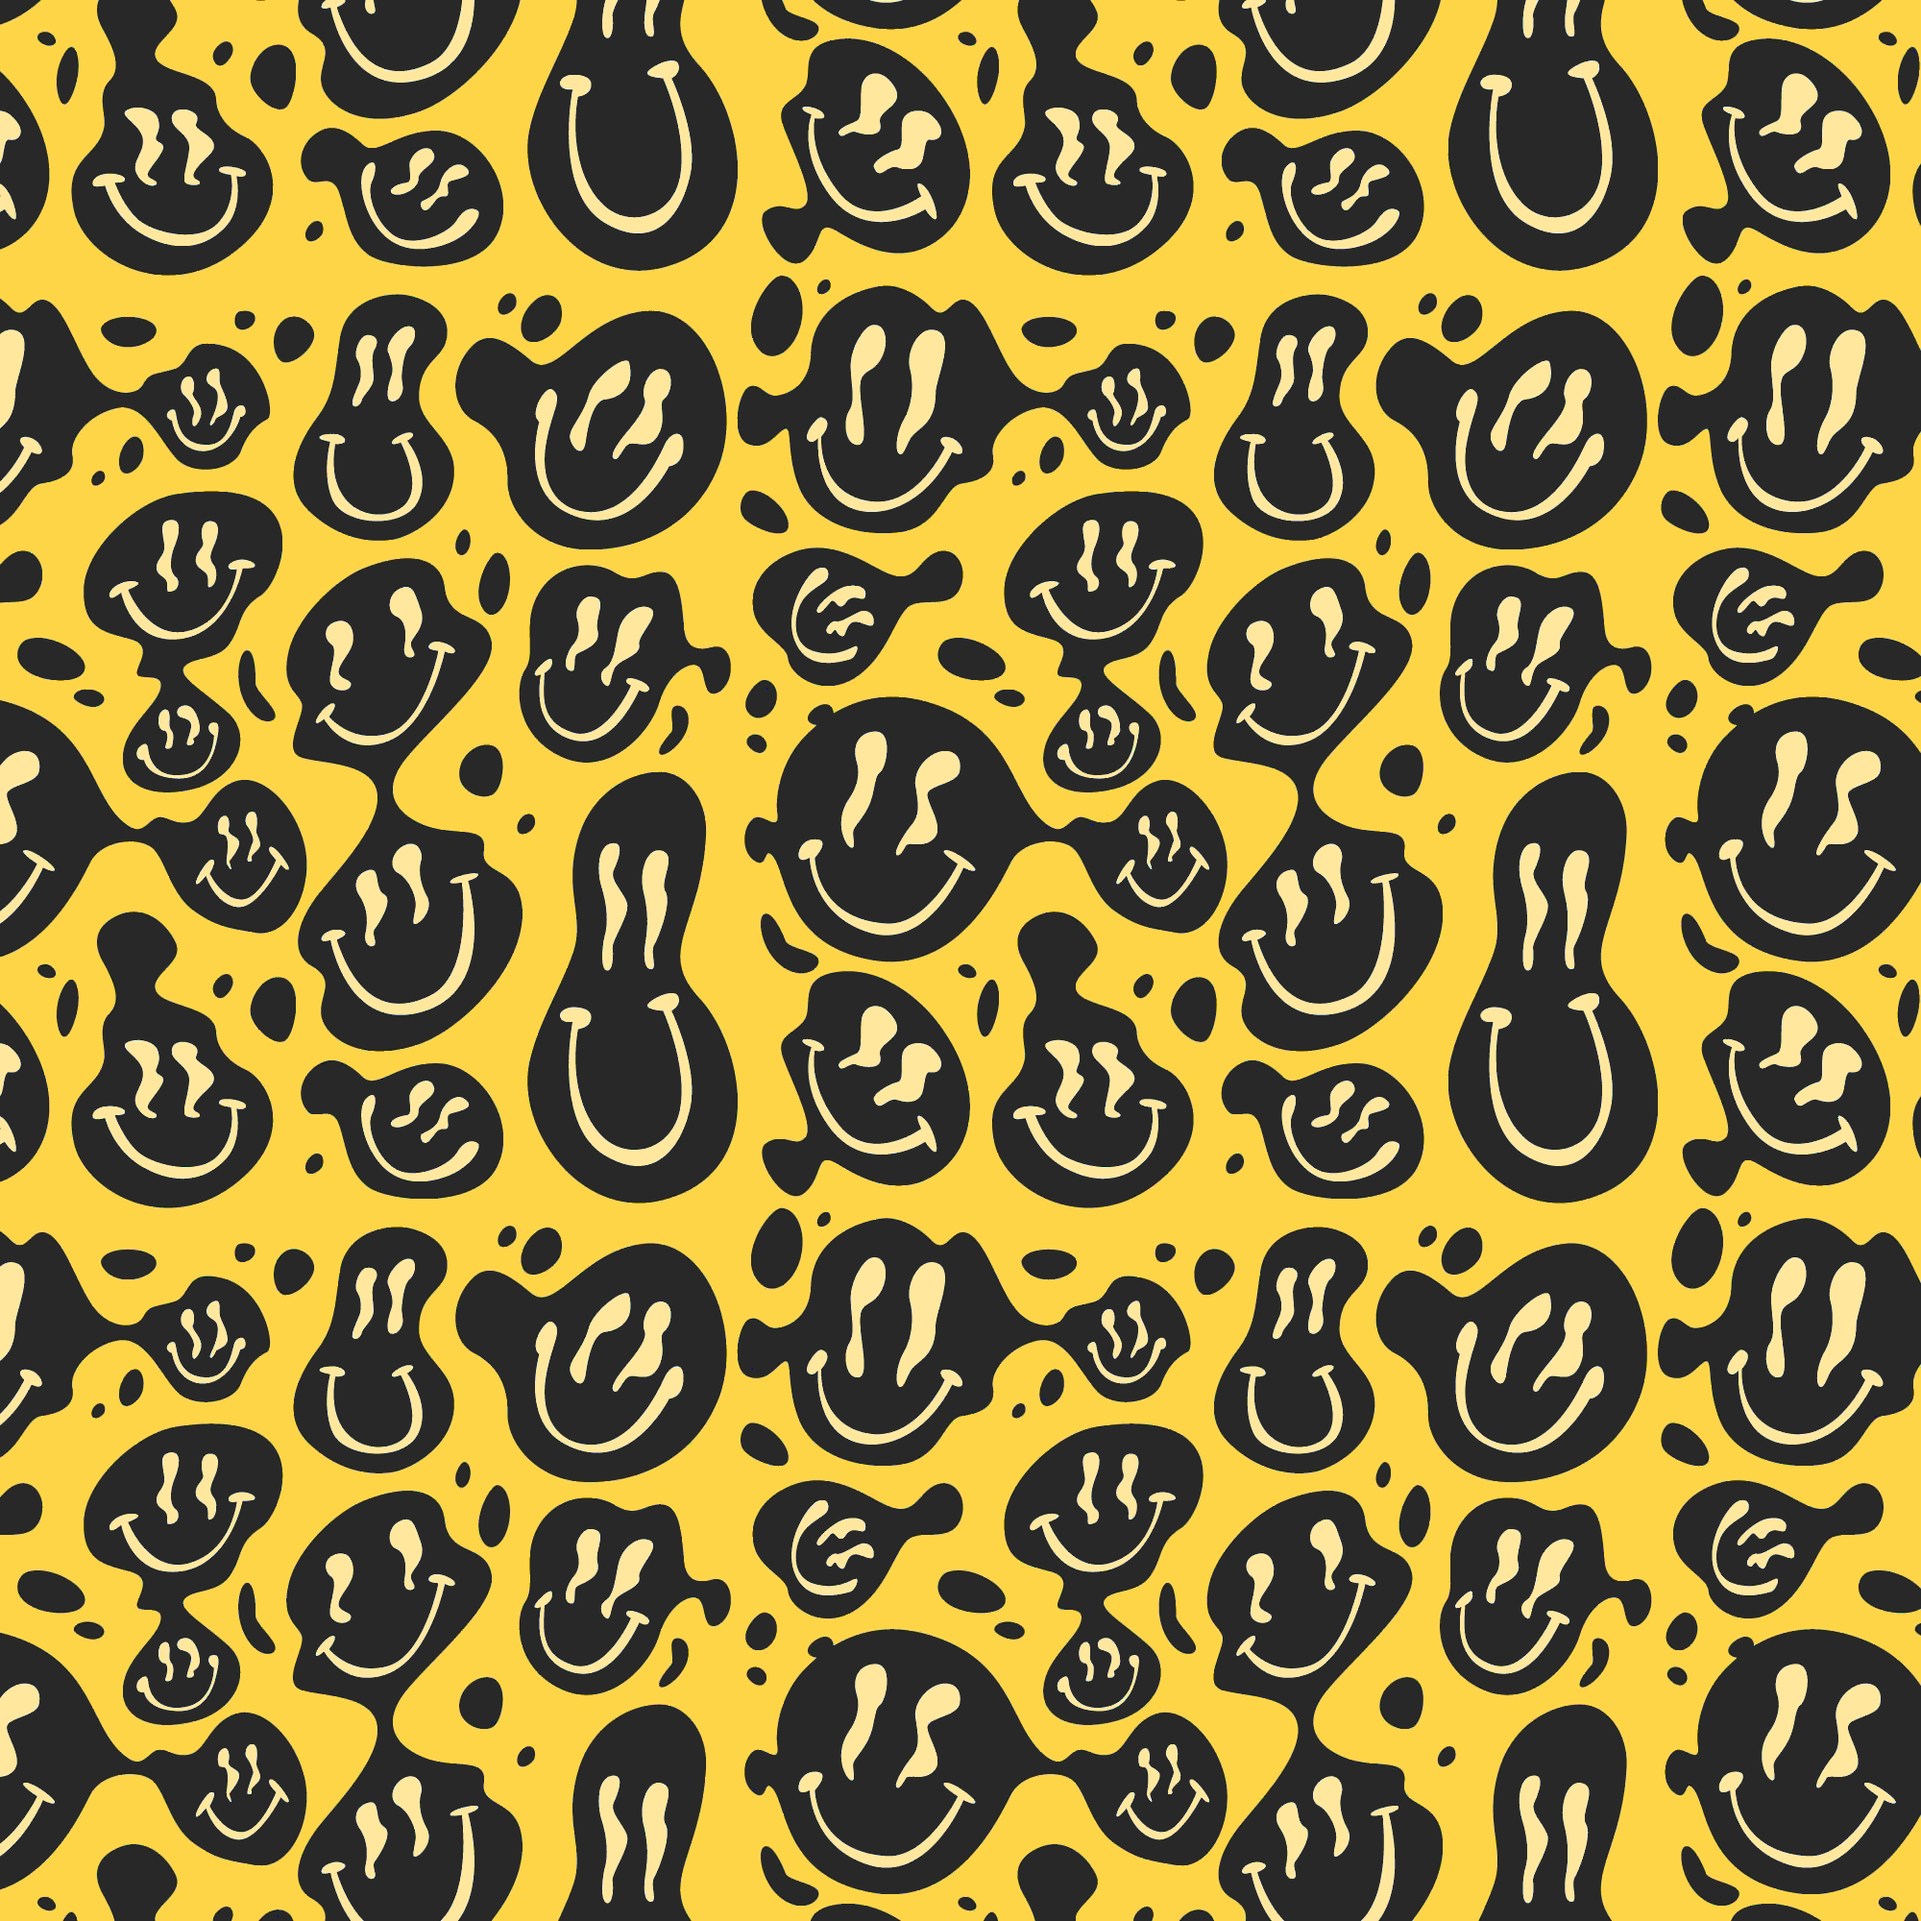
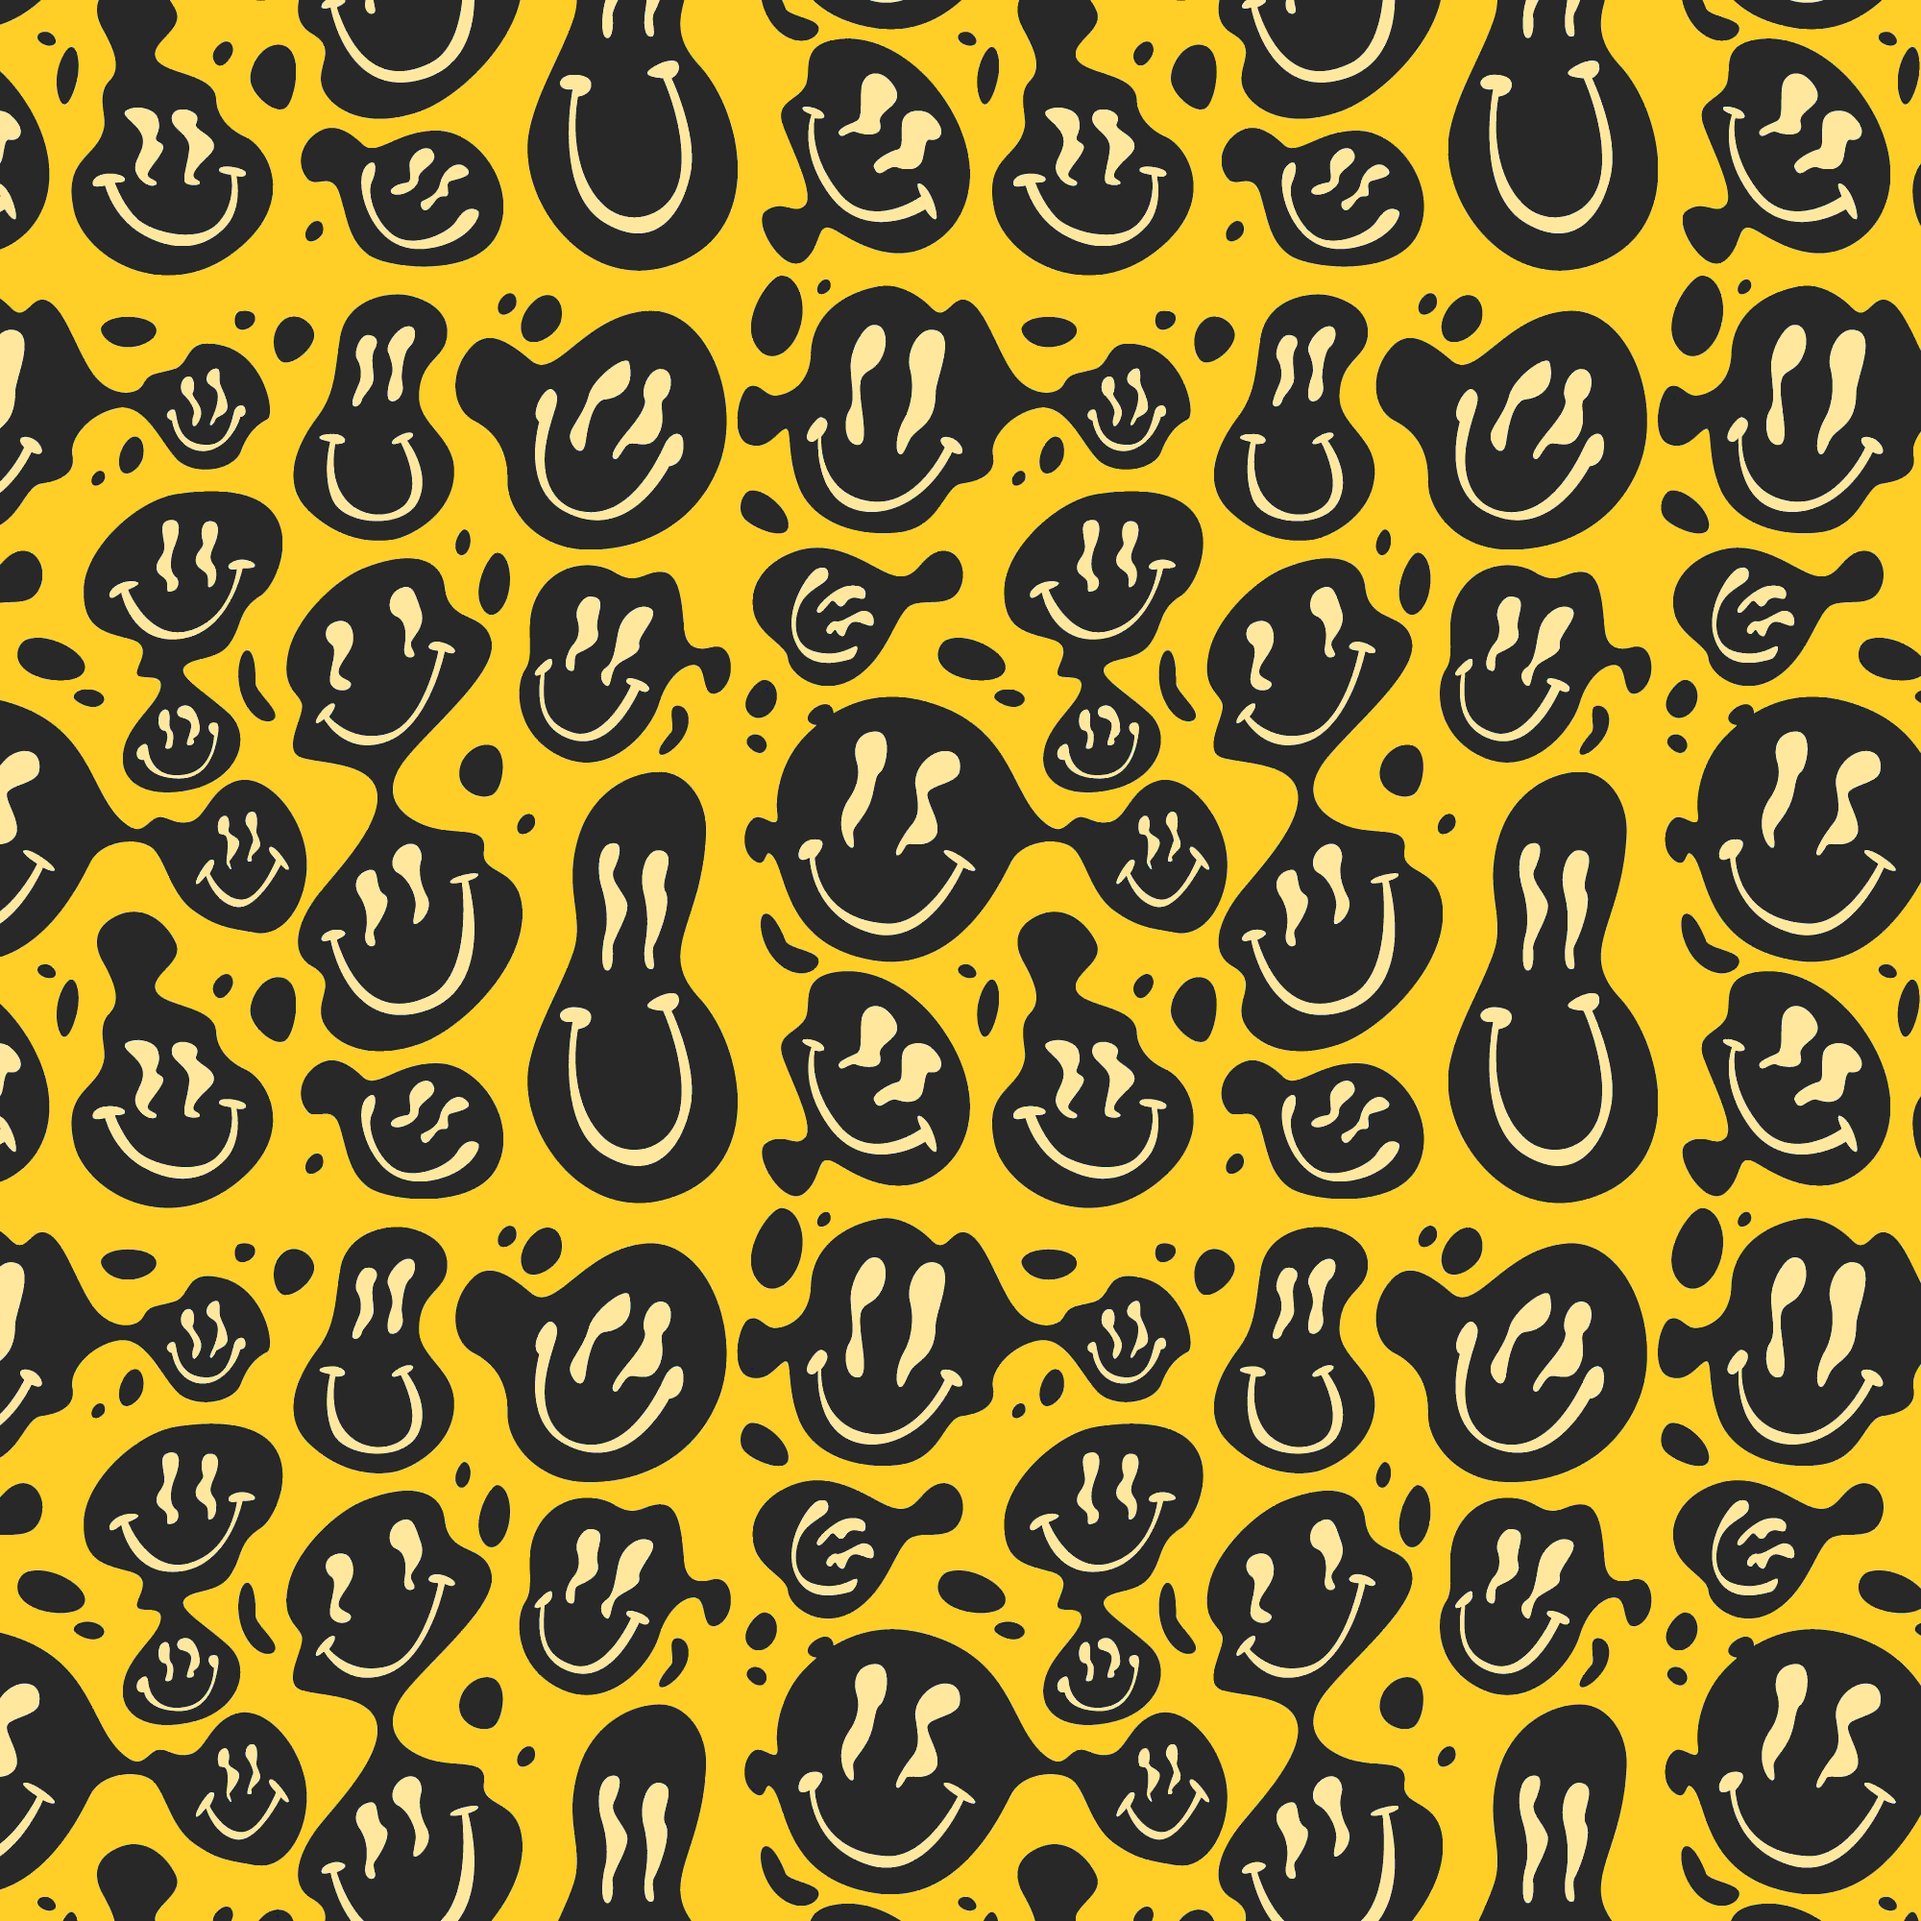
Fix missing asset

diff --git a/src/app/components/views/home-view/home-view.component.html b/src/app/components/views/home-view/home-view.component.html
@@ -1,4 +1,4 @@
-<div class="br-emo-line"></div>
+<div class="br-emo-line" [ngStyle]="{ 'background': 'url(assets/emoji-pattern-dy.png)', 'background-size': 'cover' }"></div>
 <section class="welcome-section">
   <!-- <img class="wave-bg" src="assets/wave.svg"> -->
   <!-- <img class="main-img" src="assets/manga_dot_anime_girl.png" /> -->

diff --git a/src/app/components/views/home-view/home-view.component.scss b/src/app/components/views/home-view/home-view.component.scss
@@ -1,7 +1,6 @@
 .br-emo-line {
   height: 30px;
   width: 100%;
-  background: url("/assets/emoji-pattern-dy.png");
   background-size: cover;
 }
 
